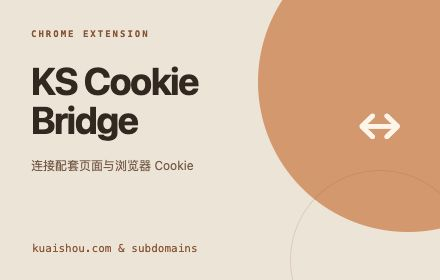
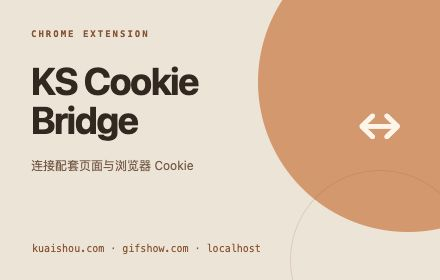
Update KS Cookie Bridge 1.0.2 materials for kuaishou, gifshow and localhost

Changed region(s): [[0.0591, 0.8571, 0.5909, 0.9143]]

diff --git a/privacy.html b/privacy.html
@@ -1,14 +1,14 @@
 <!doctype html><html lang="zh-CN"><head><meta charset="utf-8"><meta name="viewport" content="width=device-width,initial-scale=1"><title>KS Cookie Bridge — 隐私政策</title><style>:root{color-scheme:light}*{box-sizing:border-box}body{margin:0;color:#222730;background:#faf8f5;font:16px/1.85 -apple-system,BlinkMacSystemFont,"Segoe UI","PingFang SC",sans-serif}main{max-width:860px;margin:auto;padding:52px 32px 64px}a{color:#aa431a;text-underline-offset:4px}header{border-bottom:1px solid #e7ded5;padding-bottom:22px;margin-bottom:32px}.eyebrow{font:700 12px/1.6 ui-monospace,monospace;letter-spacing:2px;color:#b9562a}h1{font-size:36px;letter-spacing:-1px;line-height:1.3;margin:12px 0}h2{font-size:21px;line-height:1.5;margin:32px 0 10px}p{margin:12px 0;color:#555d68}code{font:14px/1.8 ui-monospace,monospace;background:#f1e9e0;padding:2px 5px;border-radius:4px}.lead{font-size:18px}.tag{display:inline-block;background:#fff0e4;border:1px solid #eacfbb;border-radius:99px;padding:4px 12px;color:#95441f;font-size:13px}footer{border-top:1px solid #e7ded5;margin-top:40px;padding-top:20px;font-size:13px;color:#727781}a:focus-visible{outline:2px solid #aa431a;outline-offset:4px}</style></head><body><main><header><a href="./">KS Cookie Bridge</a><div class="eyebrow">PRIVACY &amp; DATA HANDLING</div></header><h1>KS Cookie Bridge 隐私政策</h1>
-<p>生效日期：2026 年 10 月 15 日<br>适用版本：1.0.1<br>开发者：wall-e-yao（商店发布者：yaohao03）<br>联系邮箱：yaohao971112@gmail.com</p>
+<p>生效日期：2026 年 10 月 15 日<br>适用版本：1.0.2<br>开发者：wall-e-yao（商店发布者：yaohao03）<br>联系邮箱：yaohao971112@gmail.com</p>
 <h2>1. 用途与范围</h2>
-<p>KS Cookie Bridge 为配套研发网页提供 Cookie 查询能力。匹配页面通过 <code>window.getCookies(url, domain)</code> 查询 <code>kuaishou.com</code> 及其子域的 Cookie。扩展需要配套网页、相应平台账号和网络条件，不是独立的研发平台。</p>
+<p>KS Cookie Bridge 为配套研发网页提供 Cookie 查询能力。匹配页面通过 <code>window.getCookies(url, domain)</code> 查询 <code>kuaishou.com</code>、<code>gifshow.com</code> 及其子域和 <code>localhost</code> 的 Cookie。扩展需要配套网页、相应平台账号和网络条件，不是独立的研发平台。</p>
 <p>本政策说明扩展自身的数据访问和交付。Cookie 返回网页后，该页面及其运营方的进一步处理还受该网站适用的隐私政策约束。请只在信任的页面和脚本环境中使用。</p>
 <h2>2. 访问的数据</h2>
 <p>扩展处理请求中的目标 URL、域名，以及 Chrome Cookie API 返回的 Cookie 名称、值、所属域、路径、有效期、Secure、HttpOnly、SameSite 等属性。Cookie 值可能包含登录会话、认证凭证、账号标识、偏好设置或其他网站保存的信息。</p>
-<p>查询受 Chrome 主机权限限制，仅涉及 <code>kuaishou.com</code> 及其子域，不包含 <code>gifshow.com</code>、<code>localhost</code> 或其他站点。当前版本不按具体 Cookie 名称过滤结果。</p>
+<p>查询受 Chrome 主机权限限制，仅涉及 <code>kuaishou.com</code>、<code>gifshow.com</code> 及其子域和 <code>localhost</code>。localhost 用于本地配套页面与开发调试，不自动包含 127.0.0.1 或其他回环地址。当前版本不按具体 Cookie 名称过滤结果。</p>
 <p>扩展没有调用浏览历史 API，也没有专门记录鼠标、键盘、滚动、页面正文或通信内容的功能。Cookie 本身仍可能包含个人数据，不应被视为不敏感信息。</p>
 <h2>3. 查询发生的时机</h2>
-<p>安装并启用后，桥接脚本在匹配的 kuaishou.com 及其子域页面加载。页面通过查询接口发起请求时，扩展才执行 Cookie 查询。当前版本没有每次查询的额外确认弹窗，匹配页面中的脚本能够发起请求。</p>
+<p>安装并启用后，桥接脚本在匹配的 kuaishou.com、gifshow.com 及其子域和 localhost 页面加载。页面通过查询接口发起请求时，扩展才执行 Cookie 查询。当前版本没有每次查询的额外确认弹窗，匹配页面中的脚本能够发起请求。</p>
 <p>扩展使用结果完成已披露的查询与返回功能。扩展代码不调用 Cookie 写入或删除 API。</p>
 <h2>4. 数据流向与接收方</h2>
 <p>查询结果经扩展后台、内容脚本和页面 DOM 桥接，返回发起请求的匹配页面。该页面及其中运行的脚本能够接触查询结果；页面及其运营方是结果的接收方。桥接中的 Base64 仅用于编码，不提供加密保护。</p>
@@ -25,5 +25,6 @@
 <p>本扩展仅为上述 Cookie 桥接用途处理和交付数据，不包含出售数据、广告定向、信用度判断或贷款功能，不为与单一用途无关的目的使用或转移数据。本扩展对用户数据的使用与转移遵守 Chrome Web Store 用户数据政策，包括 Limited Use 要求。</p>
 <h2>8. 更新与联系</h2>
 <p>访问范围、用途或交付方式发生变化时，我们会更新政策和相应商店披露；需要额外告知或授权时，在相关处理前完成。</p>
-<p>隐私与支持联系：yaohao971112@gmail.com。
-</p><footer><a href="https://github.com/wall-e-yao/kdev-cookie-bridge">公开资料仓库</a> · yaohao971112@gmail.com</footer></main></body></html>
+<p>隐私与支持联系：yaohao971112@gmail.com。</p>
+<p></p><footer><a href="https://github.com/wall-e-yao/kdev-cookie-bridge">公开资料仓库</a> · yaohao971112@gmail.com</footer></main></body></html>
+

diff --git a/index.html b/index.html
@@ -1,1 +1,2 @@
-<!doctype html><html lang="zh-CN"><head><meta charset="utf-8"><meta name="viewport" content="width=device-width,initial-scale=1"><title>KS Cookie Bridge — Cookie 查询桥接扩展</title><style>:root{color-scheme:light}*{box-sizing:border-box}body{margin:0;color:#222730;background:#faf8f5;font:16px/1.85 -apple-system,BlinkMacSystemFont,"Segoe UI","PingFang SC",sans-serif}main{max-width:860px;margin:auto;padding:52px 32px 64px}a{color:#aa431a;text-underline-offset:4px}header{border-bottom:1px solid #e7ded5;padding-bottom:22px;margin-bottom:32px}.eyebrow{font:700 12px/1.6 ui-monospace,monospace;letter-spacing:2px;color:#b9562a}h1{font-size:36px;letter-spacing:-1px;line-height:1.3;margin:12px 0}h2{font-size:21px;line-height:1.5;margin:32px 0 10px}p{margin:12px 0;color:#555d68}code{font:14px/1.8 ui-monospace,monospace;background:#f1e9e0;padding:2px 5px;border-radius:4px}.lead{font-size:18px}.tag{display:inline-block;background:#fff0e4;border:1px solid #eacfbb;border-radius:99px;padding:4px 12px;color:#95441f;font-size:13px}footer{border-top:1px solid #e7ded5;margin-top:40px;padding-top:20px;font-size:13px;color:#727781}a:focus-visible{outline:2px solid #aa431a;outline-offset:4px}</style></head><body><main><header><div class="eyebrow">CHROME EXTENSION · 1.0.1</div><h1>KS Cookie Bridge</h1><span class="tag">kuaishou.com 及其子域</span></header><p class="lead">连接配套研发页面与浏览器 Cookie。</p><p>为配套页面提供按 URL 或域名查询 Cookie 的能力。实际查询由配套页面调用；需要相应的平台账号与网络访问条件。</p><h2>了解数据如何流动</h2><p>浏览器 Cookie → 扩展查询 → 请求页面。Cookie 可能包含登录凭证，匹配页面中的脚本可以发起查询，请仅在信任的页面启用扩展。</p><p>扩展自身不写入或删除 Cookie，不内置独立上传服务。结果交给页面后，后续处理请查看该网站说明。</p><p><a href="privacy.html">阅读完整隐私政策</a> · <a href="https://github.com/wall-e-yao/kdev-cookie-bridge">公开资料与截图</a></p><h2>查看界面</h2><p><a href="assets/screenshot-popup.jpg">查看 1280×800 界面截图</a></p><h2>支持与使用限制</h2><p>当前没有逐次确认弹窗，也不按 Cookie 名称过滤。你可通过 Chrome 扩展设置限制站点访问、停用或卸载。</p><p>隐私与支持：<a href="mailto:yaohao971112@gmail.com">yaohao971112@gmail.com</a></p><footer>个人发布 · wall-e-yao / yaohao03。资料页不表示商店已审核或上线。</footer></main></body></html>
+<!doctype html><html lang="zh-CN"><head><meta charset="utf-8"><meta name="viewport" content="width=device-width,initial-scale=1"><title>KS Cookie Bridge — Cookie 查询桥接扩展</title><style>:root{color-scheme:light}*{box-sizing:border-box}body{margin:0;color:#222730;background:#faf8f5;font:16px/1.85 -apple-system,BlinkMacSystemFont,"Segoe UI","PingFang SC",sans-serif}main{max-width:860px;margin:auto;padding:52px 32px 64px}a{color:#aa431a;text-underline-offset:4px}header{border-bottom:1px solid #e7ded5;padding-bottom:22px;margin-bottom:32px}.eyebrow{font:700 12px/1.6 ui-monospace,monospace;letter-spacing:2px;color:#b9562a}h1{font-size:36px;letter-spacing:-1px;line-height:1.3;margin:12px 0}h2{font-size:21px;line-height:1.5;margin:32px 0 10px}p{margin:12px 0;color:#555d68}code{font:14px/1.8 ui-monospace,monospace;background:#f1e9e0;padding:2px 5px;border-radius:4px}.lead{font-size:18px}.tag{display:inline-block;background:#fff0e4;border:1px solid #eacfbb;border-radius:99px;padding:4px 12px;color:#95441f;font-size:13px}footer{border-top:1px solid #e7ded5;margin-top:40px;padding-top:20px;font-size:13px;color:#727781}a:focus-visible{outline:2px solid #aa431a;outline-offset:4px}</style></head><body><main><header><div class="eyebrow">CHROME EXTENSION · 1.0.2</div><h1>KS Cookie Bridge</h1><span class="tag">kuaishou.com · gifshow.com（含子域）· localhost</span></header><p class="lead">连接配套研发页面与浏览器 Cookie。</p><p>为配套页面提供按 URL 或域名查询 Cookie 的能力。实际查询由配套页面调用；需要相应的平台账号与网络访问条件。</p><h2>了解数据如何流动</h2><p>浏览器 Cookie → 扩展查询 → 请求页面。Cookie 可能包含登录凭证，匹配页面中的脚本可以发起查询，请仅在信任的页面启用扩展。</p><p>扩展自身不写入或删除 Cookie，不内置独立上传服务。结果交给页面后，后续处理请查看该网站说明。</p><p><a href="privacy.html">阅读完整隐私政策</a> · <a href="https://github.com/wall-e-yao/kdev-cookie-bridge">公开资料与截图</a></p><h2>查看界面</h2><p><a href="assets/screenshot-popup.jpg">查看 1280×800 界面截图</a></p><h2>支持与使用限制</h2><p>当前没有逐次确认弹窗，也不按 Cookie 名称过滤。你可通过 Chrome 扩展设置限制站点访问、停用或卸载。</p><p>隐私与支持：<a href="mailto:yaohao971112@gmail.com">yaohao971112@gmail.com</a></p><footer>个人发布 · wall-e-yao / yaohao03。资料页不表示商店已审核或上线。</footer></main></body></html>
+

diff --git a/STORE-PRIVACY.md b/STORE-PRIVACY.md
@@ -1,8 +1,8 @@
-# Chrome Web Store 隐私字段 — KS Cookie Bridge 1.0.1
+# Chrome Web Store 隐私字段 — KS Cookie Bridge 1.0.2
 
 ## 单一用途说明
 
-为配套研发页面提供 kuaishou.com 及其子域的 Cookie 查询桥接能力。页面指定 URL 或域名，扩展查询获授权范围内的 Cookie 并返回结果。需要配套页面及相应平台账号和网络访问条件。提交前还应补充实际用户可见的业务功能及操作入口。
+为配套研发页面提供 kuaishou.com、gifshow.com 及其子域和 localhost 的 Cookie 查询桥接能力。页面指定 URL 或域名，扩展查询获授权范围内的 Cookie 并返回结果。需要配套页面及相应平台账号和网络访问条件。提交前还应补充实际用户可见的业务功能及操作入口。
 
 ## 需请求 cookies 的理由
 
@@ -10,7 +10,7 @@
 
 ## 需请求主机权限的理由
 
-Chrome Cookie API 需要对应站点的主机权限。本版本仅申请 kuaishou.com 及其子域，并在匹配页面加载查询桥接脚本；不包含 gifshow.com、localhost 或其他站点。应结合实际业务确认能否进一步收窄到具体主机。
+Chrome Cookie API 需要对应站点的主机权限。本版本申请 kuaishou.com、gifshow.com 及其子域和 localhost，并在这些匹配页面加载查询桥接脚本。kuaishou.com 与 gifshow.com 用于配套站点的 Cookie 查询；localhost 用于本地配套页面及开发调试。localhost 不自动包含 127.0.0.1。应结合实际业务确认能否进一步收窄到具体主机。
 
 ## 远程代码
 
@@ -31,3 +31,4 @@ Chrome Cookie API 需要对应站点的主机权限。本版本仅申请 kuaisho
 备用 Markdown：https://github.com/wall-e-yao/kdev-cookie-bridge/blob/main/PRIVACY.md
 
 仅在地址验证可公开访问后填写。
+

diff --git a/README.md b/README.md
@@ -1,6 +1,6 @@
 # KS Cookie Bridge
 
-为配套研发页面提供 `kuaishou.com` 及其子域的 Cookie 查询能力。当前本地包版本：**1.0.1**。
+为配套研发页面提供 `kuaishou.com`、`gifshow.com` 及其子域和 `localhost` 的 Cookie 查询能力。当前本地包版本：**1.0.2**。
 
 本仓库保存公开说明、隐私政策与 Chrome Web Store 素材，不包含扩展源码或真实 Cookie。
 
@@ -28,3 +28,4 @@
 ## 发布状态
 
 资料页不表示 Chrome Web Store 已审核或上线。条目 ID：`cblnfmpmedieiobmebooiefhjiolnbab`。改名与权限变化需上传新版 ZIP 后才会反映到商店草稿。完整配套业务仍需补充用户功能和数据流说明。
+
